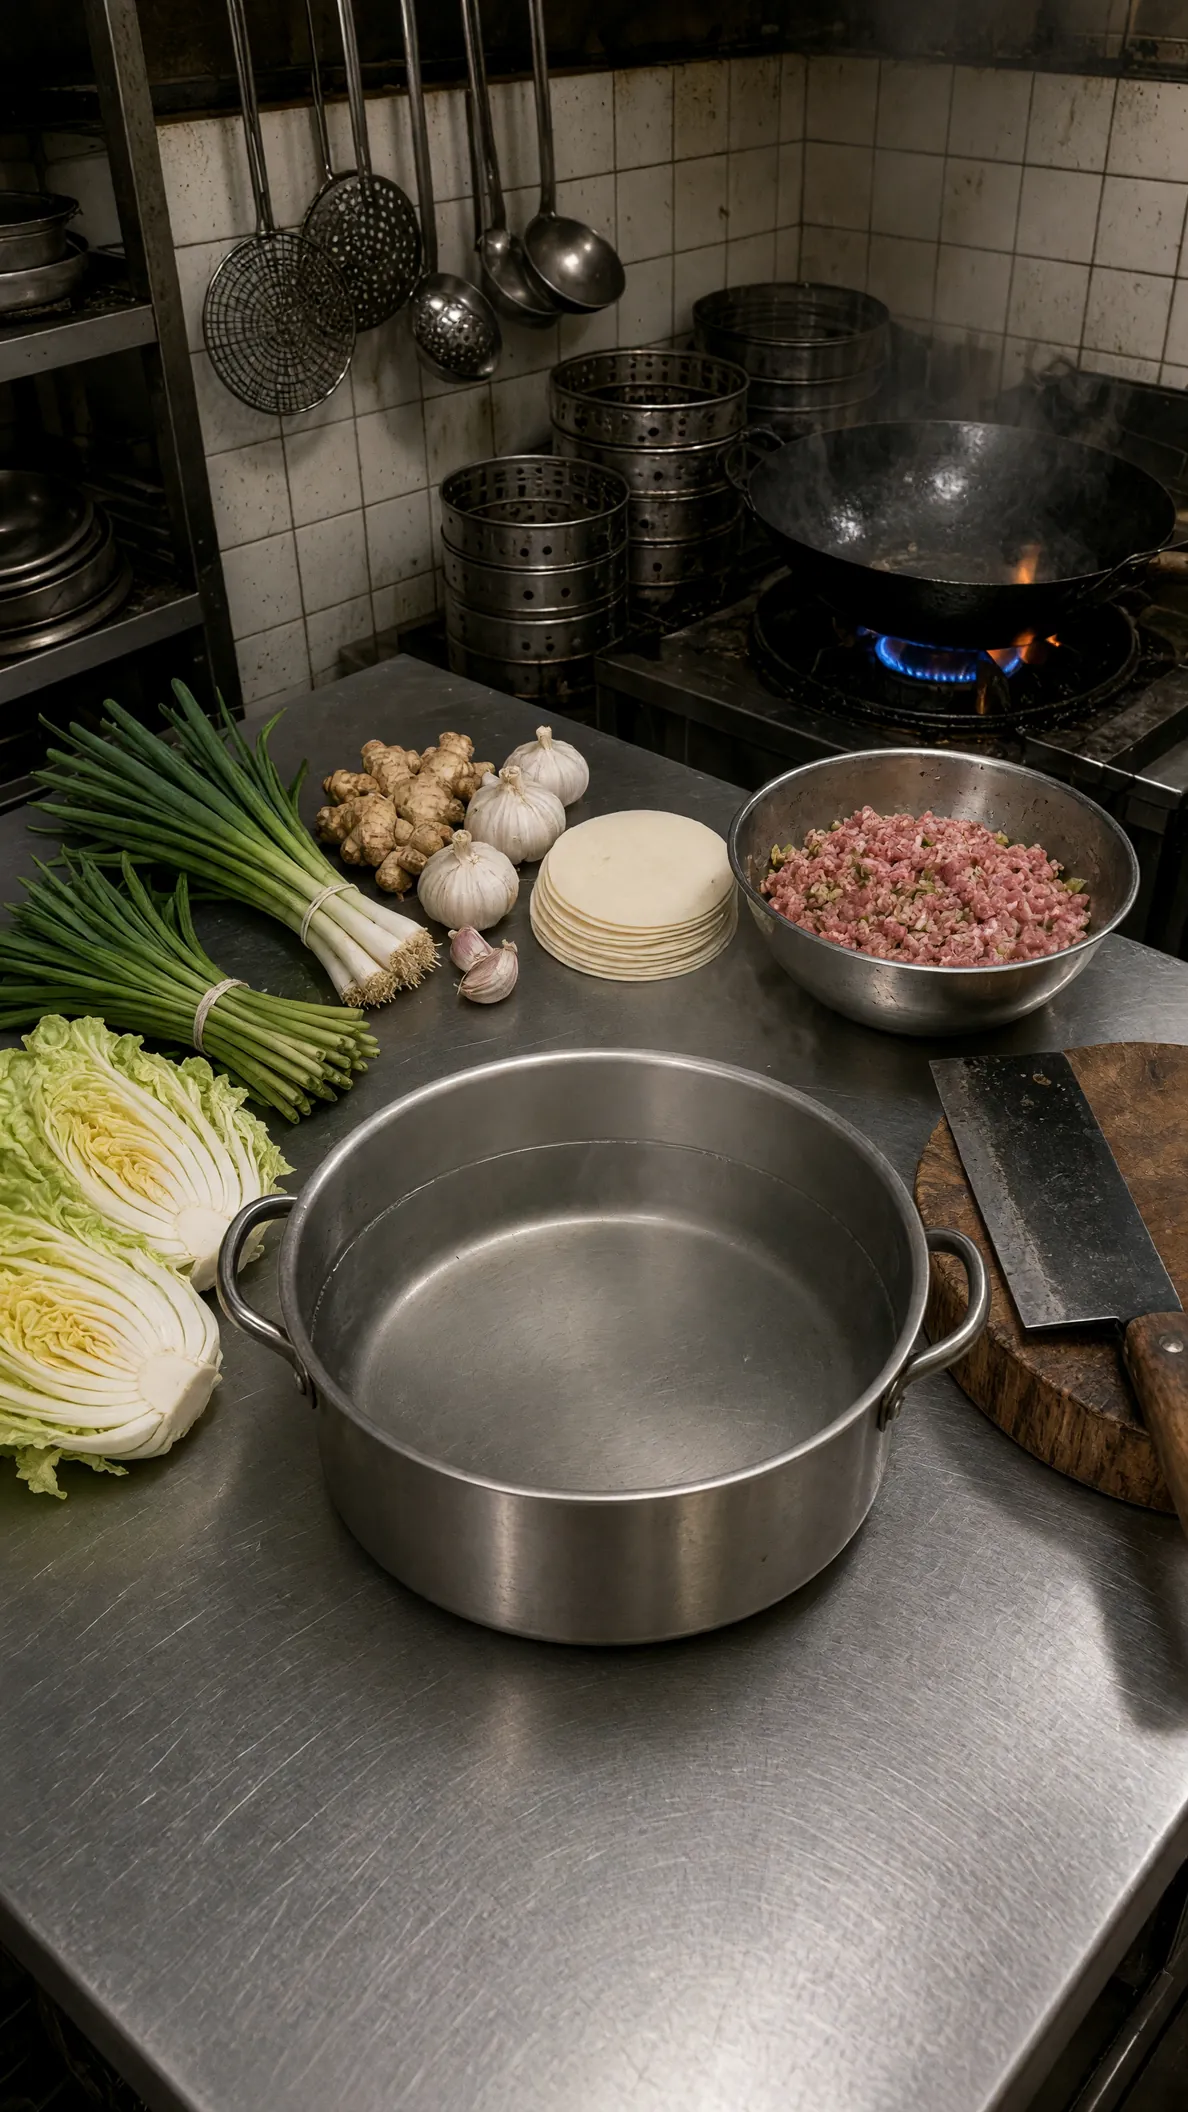
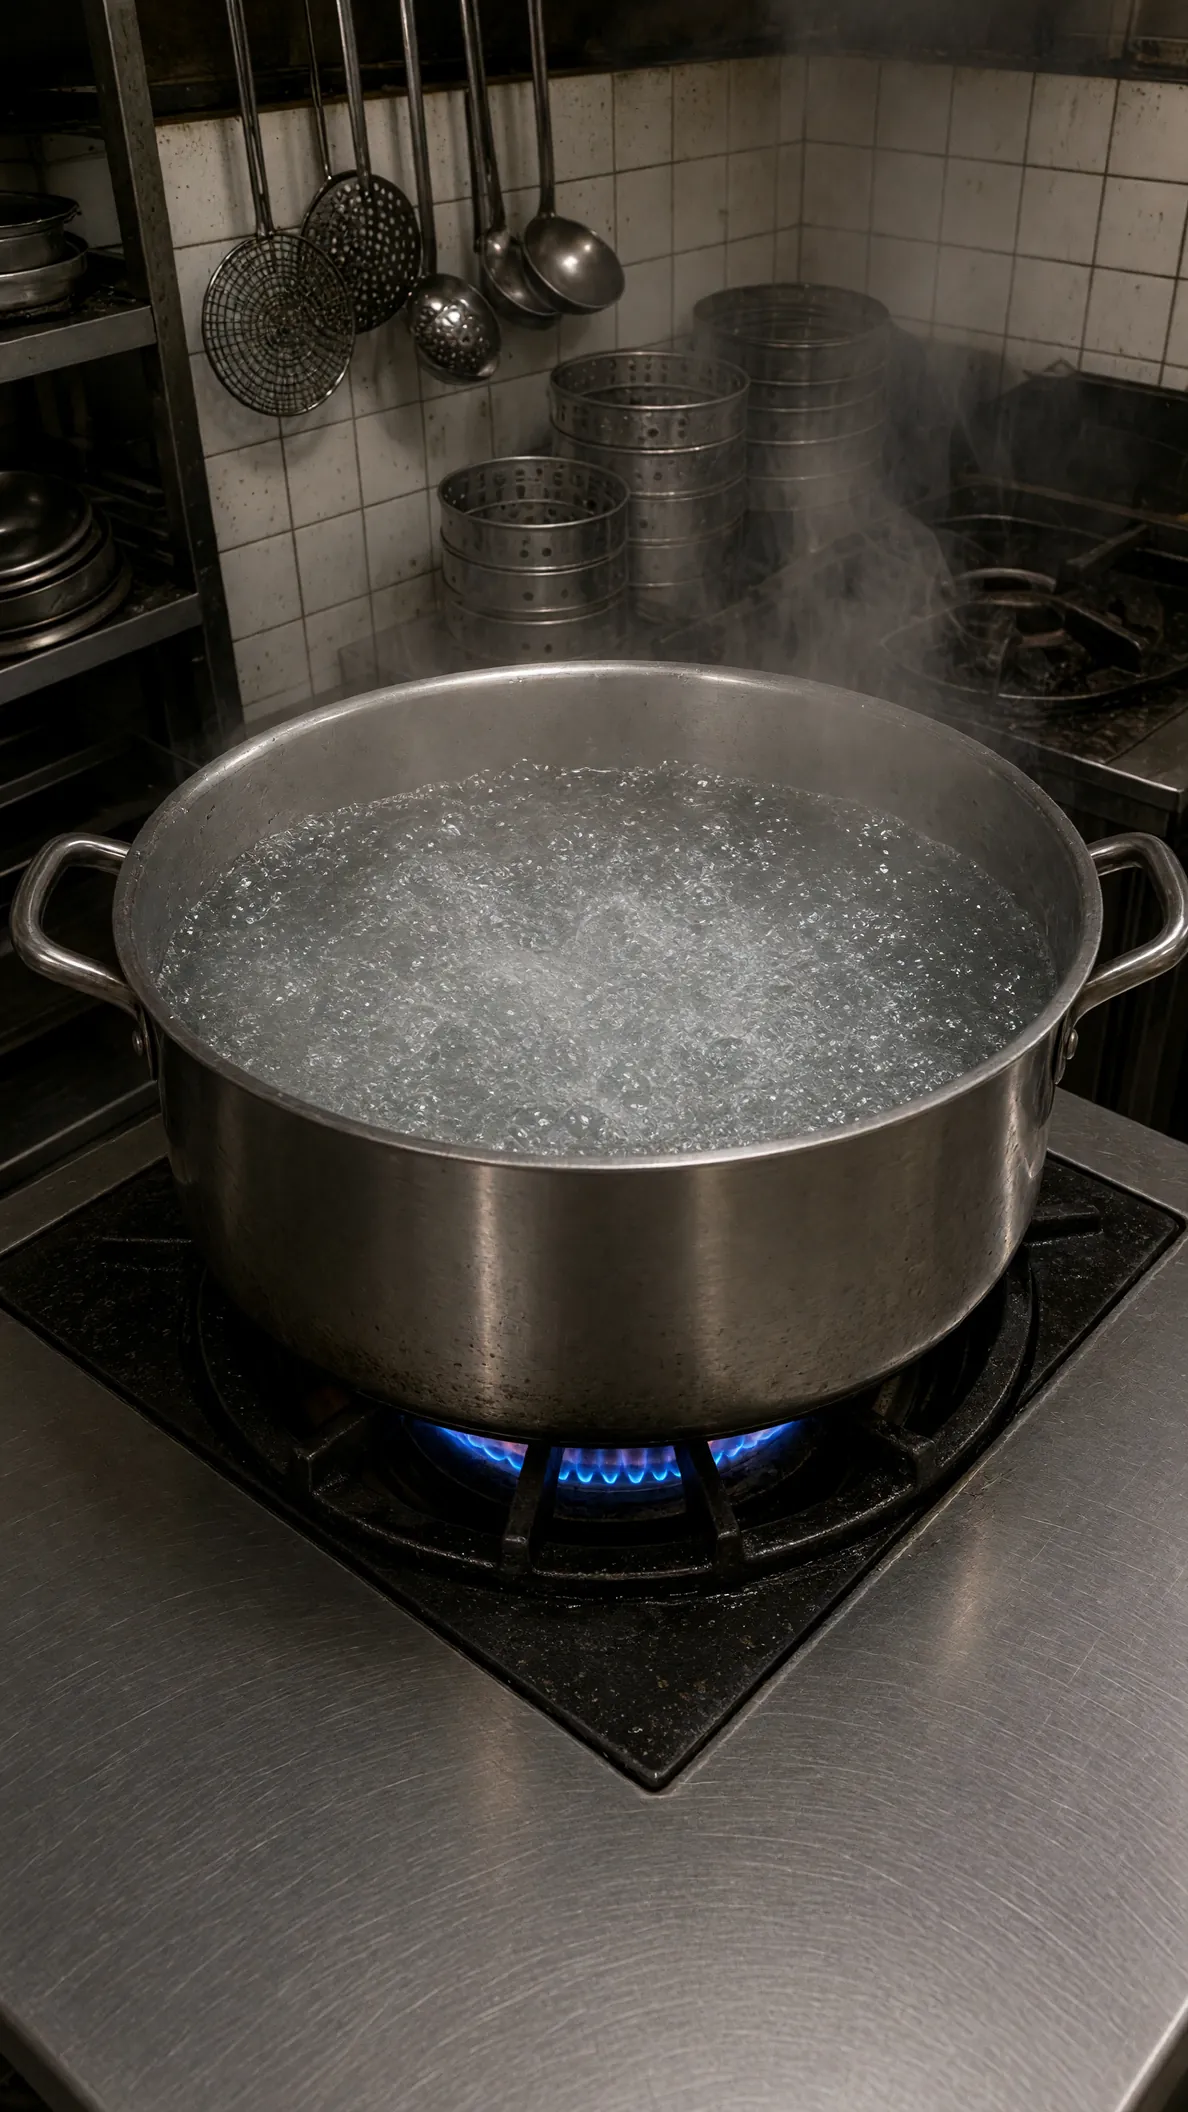
gyoza: 茹でる所を 火の上の大鍋に

diff --git a/gyoza/play/js/main.js b/gyoza/play/js/main.js
@@ -285,7 +285,7 @@
   function setMode() { FRONT = SET.mode !== 'side'; DRL = FRONT ? DRL_F : DRL_S; DS = DRL.ds; }
   setMode();
   var BGI = { w: 1188, h: 2112, cx: 600 };                                    // 店の写真(shop / shop_pot は同じ構図)。cx = 画面の真ん中に来る x
-  var POTW = { cx: 600, cy: 1300, rx: 285, ry: 158 };                          // 11-27: kitchen_pot の 湯の面(前は shop_pot の 607, 1313, 348, 150)
+  var POTW = { cx: 608, cy: 960, rx: 430, ry: 178 };                           // 11-27: kitchen_pot(= cn_stove_pot。火の上の大鍋)の 湯の面(前は 台の上の鍋 600, 1300 / 客席の shop_pot 607, 1313)
   var PLATE = { cx: 600, cy: 1310, rx: 300, ry: 226 };                         // 11-27: 一品目も 厨房へ = kitchen の 大皿(前は 客席 shop の 618, 1367, 361, 234)
   function rnd(seed) { return G.rng(seed); }
   function bake(im, sc, blur, oy) {                 // 影つきで 先に焼いておく(毎コマ影を計算しない)
@@ -446,7 +446,7 @@
     { kind: 'drill', bg: 'kitchen', no: ['一品目', 'Order 1'], dish: ['ネジ水餃子', 'Screwed Dumplings'], tool: ['電動ドリル', 'Power drill'], take: ['ドリルを持つ', 'Grab the drill'],
       who: ['大将', 'Chef'], line: ['お前の包んだのは 茹でたら開く。ネジで 閉めとけ', 'Yours pop open in the pot. Screw them shut.'], voice: 'open',
       how: ['長押しで ネジを締める。頭が皮に沈んだら 離す', 'Hold to drive the screw. Let go when the head sinks in.'],
-      goal: ['茹でても開かない餃子', 'Dumplings that survive the pot'], unit: ['コ', ''], quota: 5, best: ['最高 ', 'Best '] },
+      goal: ['茹で上がり(開かない餃子)', 'Cooked (did not burst)'], unit: ['コ', ''], quota: 5, best: ['最高 ', 'Best '] },
     { kind: 'smash', bg: 'kitchen', no: ['二品目', 'Order 2'], dish: ['叩ききゅうり', 'Smashed Cucumber'], tool: ['金づち', 'Hammer'], take: ['金づちを持つ', 'Grab the hammer'],
       who: ['大将', 'Chef'], line: ['まかないの 前菜は 叩ききゅうりや。金づちで ひびを 入れろ', 'Staff meal starter: smashed cucumber. Crack it with a hammer.'],
       how: ['赤い印を 一回ずつ 叩く。同じ所を 二回 叩くと つぶれる', 'Tap each red mark once. Hit the same spot twice and it turns to mush.'],
@@ -581,7 +581,7 @@
     staple: [['春巻の神', 'Spring Roll God'], ['留め職人', 'Staple Master']], cut: [['細切りの神', 'Knife God'], ['金尺の鬼', 'Ruler Demon']], caulk: [['焼売の神', 'Shumai God'], ['絞りの名人', 'Piping Master']],
     kanna: [['かんなの神', 'Plane God'], ['宮大工', 'Temple Carpenter']], saw: [['骨切りの神', 'Bone-Saw God'], ['大工の棟梁', 'Master Carpenter']], crank: [['麺の神', 'Noodle God'], ['巻きの名人', 'Twist Master']] };
   function crit(k, ri) { return ri < 2 ? CRIT[k][ri] : ri === 2 ? ['合格', 'Passed'] : ['ぎりぎり', 'Just made it']; }
-  var LABEL = { drill: ['茹でても 開かなかった', 'Stayed shut in the pot'], smash: ['ひびが 入った', 'Cracked just right'], staple: ['3 か所 留まった', 'Stapled three times'], cut: ['まっすぐ 切れた', 'Cut dead straight'],
+  var LABEL = { drill: ['茹で上がり', 'Cooked'], smash: ['ひびが 入った', 'Cracked just right'], staple: ['3 か所 留まった', 'Stapled three times'], cut: ['まっすぐ 切れた', 'Cut dead straight'],
     caulk: ['花の形に 絞れた', 'Piped into flowers'], kanna: ['薄く 削げた', 'Shaved thin'], saw: ['骨ごと 切れた', 'Cut through the bone'], crank: ['ひと口に 巻けた', 'Twisted into bites'] };
   var CHEF = [['大将「明日から お前が包め」', 'Chef: "You\'re wrapping from tomorrow."'], ['大将「やるやないか」', 'Chef: "Not bad."'], ['大将「まあ 出せる」', 'Chef: "Good enough to serve."'], ['大将「ぎりぎりやな」', 'Chef: "Barely."']];
   var shareText = '', promoFrom = -1;
@@ -590,7 +590,7 @@
     st = 'RESULT'; nativeScreen('result'); bgmLayer(0); hintEl.classList.remove('on');
     var D = STG[S], k = endKind, big = $('r-big'), rk = $('r-rank'), u = JA ? '<small>' + D.unit[0] + '</small>' : '', c, stat, L;
     big.className = ''; promoFrom = -1; $('r-promo').textContent = '';
-    if (D.kind === 'drill') { c = game.closed; stat = [T('分速 ' + game.perMin() + ' コ', game.perMin() + '/min'), T('ぴたっ ' + game.flush() + '%', 'Flush ' + game.flush() + '%'), T('開いた ' + game.opened + ' コ', 'Opened ' + game.opened)]; }
+    if (D.kind === 'drill') { c = game.closed; stat = [T('分速 ' + game.perMin() + ' コ', game.perMin() + '/min'), T('ぴたっ ' + game.flush() + '%', 'Flush ' + game.flush() + '%'), T('開いた ' + game.opened + ' コ', 'Burst ' + game.opened)]; }
     else if (D.kind === 'staple') { c = mini.g.closed; stat = [T('ぴたっ ' + mini.g.flush() + '%', 'Dead-on ' + mini.g.flush() + '%'), T('はみ出た ' + mini.g.spoiled + ' 本', 'Burst ' + mini.g.spoiled)]; }
     else if (D.kind === 'cut') { c = mini.g.cuts; stat = [T('ぴたっ ' + mini.g.flush() + '%', 'Dead-straight ' + mini.g.flush() + '%'), T('失敗 ' + mini.g.bad + ' 本', 'Ruined ' + mini.g.bad)]; }
     else if (D.kind === 'smash') { c = mini.g.done; stat = [T('ぴたっ ' + mini.g.flush() + '%', 'Dead-on ' + mini.g.flush() + '%'), T('つぶした ' + mini.g.ruined + ' 本', 'Mushed ' + mini.g.ruined)]; }
@@ -877,11 +877,14 @@
       g = c.createRadialGradient(sxp, syp, 0, sxp, syp, sr); g.addColorStop(0, 'rgba(255,255,255,' + 0.2 * Math.sin(sp * Math.PI) + ')'); g.addColorStop(1, 'rgba(255,255,255,0)'); c.fillStyle = g; c.fillRect(sxp - sr, syp - sr, sr * 2, sr * 2); }
     drawPops(c, tn);
     if (st === 'BOIL') {                              // 数え上げ
-      var yy = Math.round(H * 0.2), lab = T('開かなかった', 'Stayed shut'), num = String(b.shut + (t > 600 ? b.extraShut : 0));   // 漆の札(壁の品書きの前)
-      c.save(); c.shadowColor = 'rgba(20,4,0,.45)'; c.shadowBlur = 24; c.shadowOffsetY = 10; c.fillStyle = PAPER; rr(c, 330, yy - 250, 420, 300, 6); c.fill(); c.restore();
-      c.fillStyle = RED; c.fillRect(330, yy - 250, 420, 14);
-      c.textAlign = 'center'; c.textBaseline = 'alphabetic'; c.font = '700 46px ' + FONT_UI; c.fillStyle = INK; c.fillText(lab, 540, yy - 172);
-      c.font = '900 168px ' + FONT_UI; c.fillStyle = RED; c.fillText(num, 540, yy + 2);
+      // 数え上げの札(11-27: 「開かなかった」が 分かりにくい → 茹で上がり ◯コ + 小さく 開いた ◯コ)
+      var yy = Math.round(H * 0.2), num = String(b.shut + (t > 600 ? b.extraShut : 0));
+      c.save(); c.shadowColor = 'rgba(20,4,0,.45)'; c.shadowBlur = 24; c.shadowOffsetY = 10; c.fillStyle = PAPER; rr(c, 310, yy - 250, 460, 350, 6); c.fill(); c.restore();
+      c.fillStyle = RED; c.fillRect(310, yy - 250, 460, 14);
+      c.textAlign = 'center'; c.textBaseline = 'alphabetic'; c.font = '700 46px ' + FONT_UI; c.fillStyle = INK; c.fillText(T('茹で上がり', 'Cooked'), 540, yy - 172);
+      c.font = '900 168px ' + FONT_UI; var nw = c.measureText(num).width; c.fillStyle = RED; c.fillText(num, 540 - (JA ? 22 : 0), yy + 2);
+      if (JA) { c.font = '700 54px ' + FONT_UI; c.fillStyle = INK; c.textAlign = 'left'; c.fillText('コ', 540 - 22 + nw / 2 + 6, yy + 2); c.textAlign = 'center'; }
+      c.font = '700 38px ' + FONT_UI; c.fillStyle = 'rgba(35,26,20,.7)'; c.fillText(T('開いた ' + b.opened + ' コ', 'Burst ' + b.opened), 540, yy + 70);
     }
   }
 
